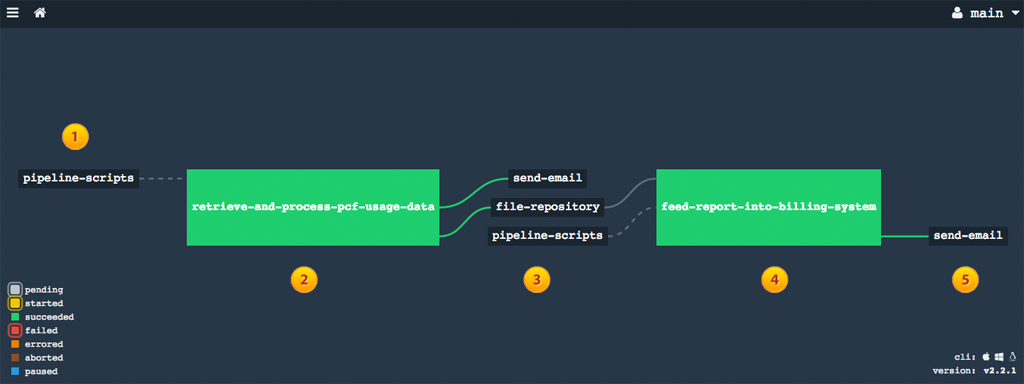
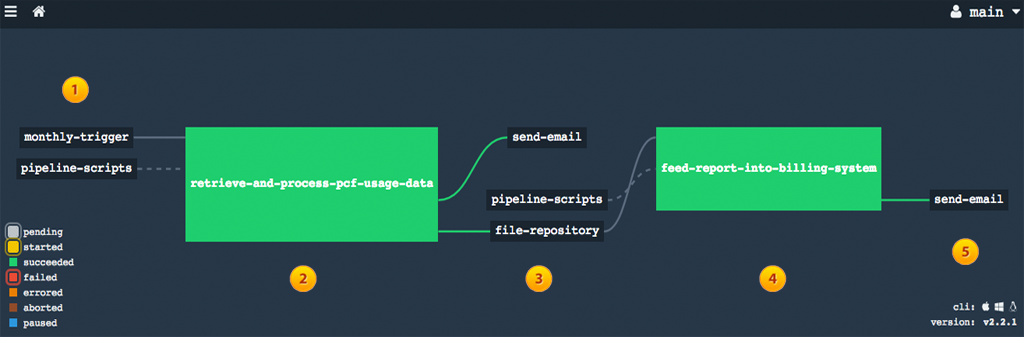
Update image of the pipeline

diff --git a/README.md b/README.md
@@ -16,7 +16,8 @@ The pipeline performs the following steps:
 
 ![PCF Usage Report producer pipeline screenshot](https://github.com/pivotalservices/concourse-pcf-usage-report/raw/master/common/images/pipeline_annotated.png)
 
-1. Pipeline tasks and scripts are retrieved from a git repository  
+1. The pipeline is automatically triggered by a time resource (e.g. once a month).  
+   Pipeline tasks and scripts are retrieved from a git repository  
 
 2. Usage data and quota information is retrieved from the PCF deployment:  
    - Organization, space, applications, services and buildpack information, along with memory and space quotas are retrieved using [Cloud Foundry APIs](https://apidocs.cloudfoundry.org/)  
@@ -83,9 +84,18 @@ The recipients listed you your ```email-to``` parameter should receive an email 
 ---
 ### Customizing and making the pipeline ready for production
 
-- enable timer resource
-- time period of report
-TBD
+##### Enable the time resource  
+  The time resource that automatically triggers the pipeline is commented out/disable by default.  
+  In order to have it enabled, uncomment out the two commented lines that will enable the resource in the pipeline definition file ( [ci/pipeline/pcf-usage-report-simple.yml](https://github.com/pivotalservices/concourse-pcf-usage-report/blob/master/ci/pipeline/pcf-usage-report-simple.yml#L46)) and repeat step 3 from the pipeline setup instructions above.
+
+##### Customize the time period of report
+  By default, the time range set for the report is the last month's initial and end dates.  
+  In order to change it, look for task ```define-report-time-range``` of pipeline definition file ( [ci/pipeline/pcf-usage-report-simple.yml](https://github.com/pivotalservices/concourse-pcf-usage-report/blob/master/ci/pipeline/pcf-usage-report-simple.yml#L71)) and change the two line of bash scripts that calculate the initial and end dates to be used by the pipeline scripts.  
+  The sample provides a commented out example on how to set those two dates to be the beginning of the current month until the current date (see below). After changing these dates, repeat step 3 from the pipeline setup instructions above.     
+  ```
+  date1=$(date -d "$(date +%Y-%m-01)" +"%Y-%m-01")
+  date -d "$(date +%Y-%m-%d)" +"{ 'USAGE_START_DATE':'$date1', 'USAGE_END_DATE':'%Y-%m-%d' }" > ./report-time-range/report-time-range.json
+  ```
 
 ---
 ### Potential improvements and extensions
